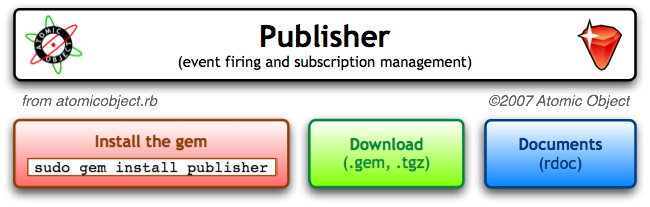
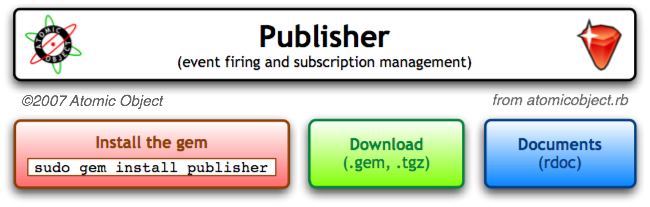
Switching the copyright and atomicobject.rb links around... again?
git-svn-id: http://atomicobjectrb.rubyforge.org/svn/trunk/publisher@34 7bd720c3-caf9-44c9-a48d-612f81e63739

diff --git a/homepage/index.html b/homepage/index.html
@@ -15,10 +15,11 @@
     <div align="center">
 
       <map name="GraffleExport">
-	<area shape=rect coords="14,91,163,108" href="http://atomicobjectrb.rubyforge.org/">
+	<area shape=rect coords="485,91,634,108" href="http://atomicobjectrb.rubyforge.org/">
 	<area shape=rect coords="485,120,635,187" href="rdoc/index.html">
 	<area shape=rect coords="310,120,463,187" href="http://rubyforge.org/frs/?group_id=4897&release_id=16546">
-	<area shape=rect coords="481,91,635,108" href="http://atomicobject.com">
+	<area shape=rect coords="14,91,168,108" href="http://atomicobject.com">
+	<area shape=rect coords="572,16,627,71" href="http://atomicobjectrb.rubyforge.org/">
 	<area shape=rect coords="21,13,83,75" href="http://atomicobject.com">
 </map>
 <img border=0 src="page_header.png" usemap="#GraffleExport">

diff --git a/homepage/page_header.html b/homepage/page_header.html
@@ -1,8 +1,9 @@
 <map name="GraffleExport">
-	<area shape=rect coords="14,91,163,108" href="http://atomicobjectrb.rubyforge.org/">
+	<area shape=rect coords="485,91,634,108" href="http://atomicobjectrb.rubyforge.org/">
 	<area shape=rect coords="485,120,635,187" href="rdoc/index.html">
 	<area shape=rect coords="310,120,463,187" href="http://rubyforge.org/frs/?group_id=4897&release_id=16546">
-	<area shape=rect coords="481,91,635,108" href="http://atomicobject.com">
+	<area shape=rect coords="14,91,168,108" href="http://atomicobject.com">
+	<area shape=rect coords="572,16,627,71" href="http://atomicobjectrb.rubyforge.org/">
 	<area shape=rect coords="21,13,83,75" href="http://atomicobject.com">
 </map>
 <img border=0 src="page_header.png" usemap="#GraffleExport">
